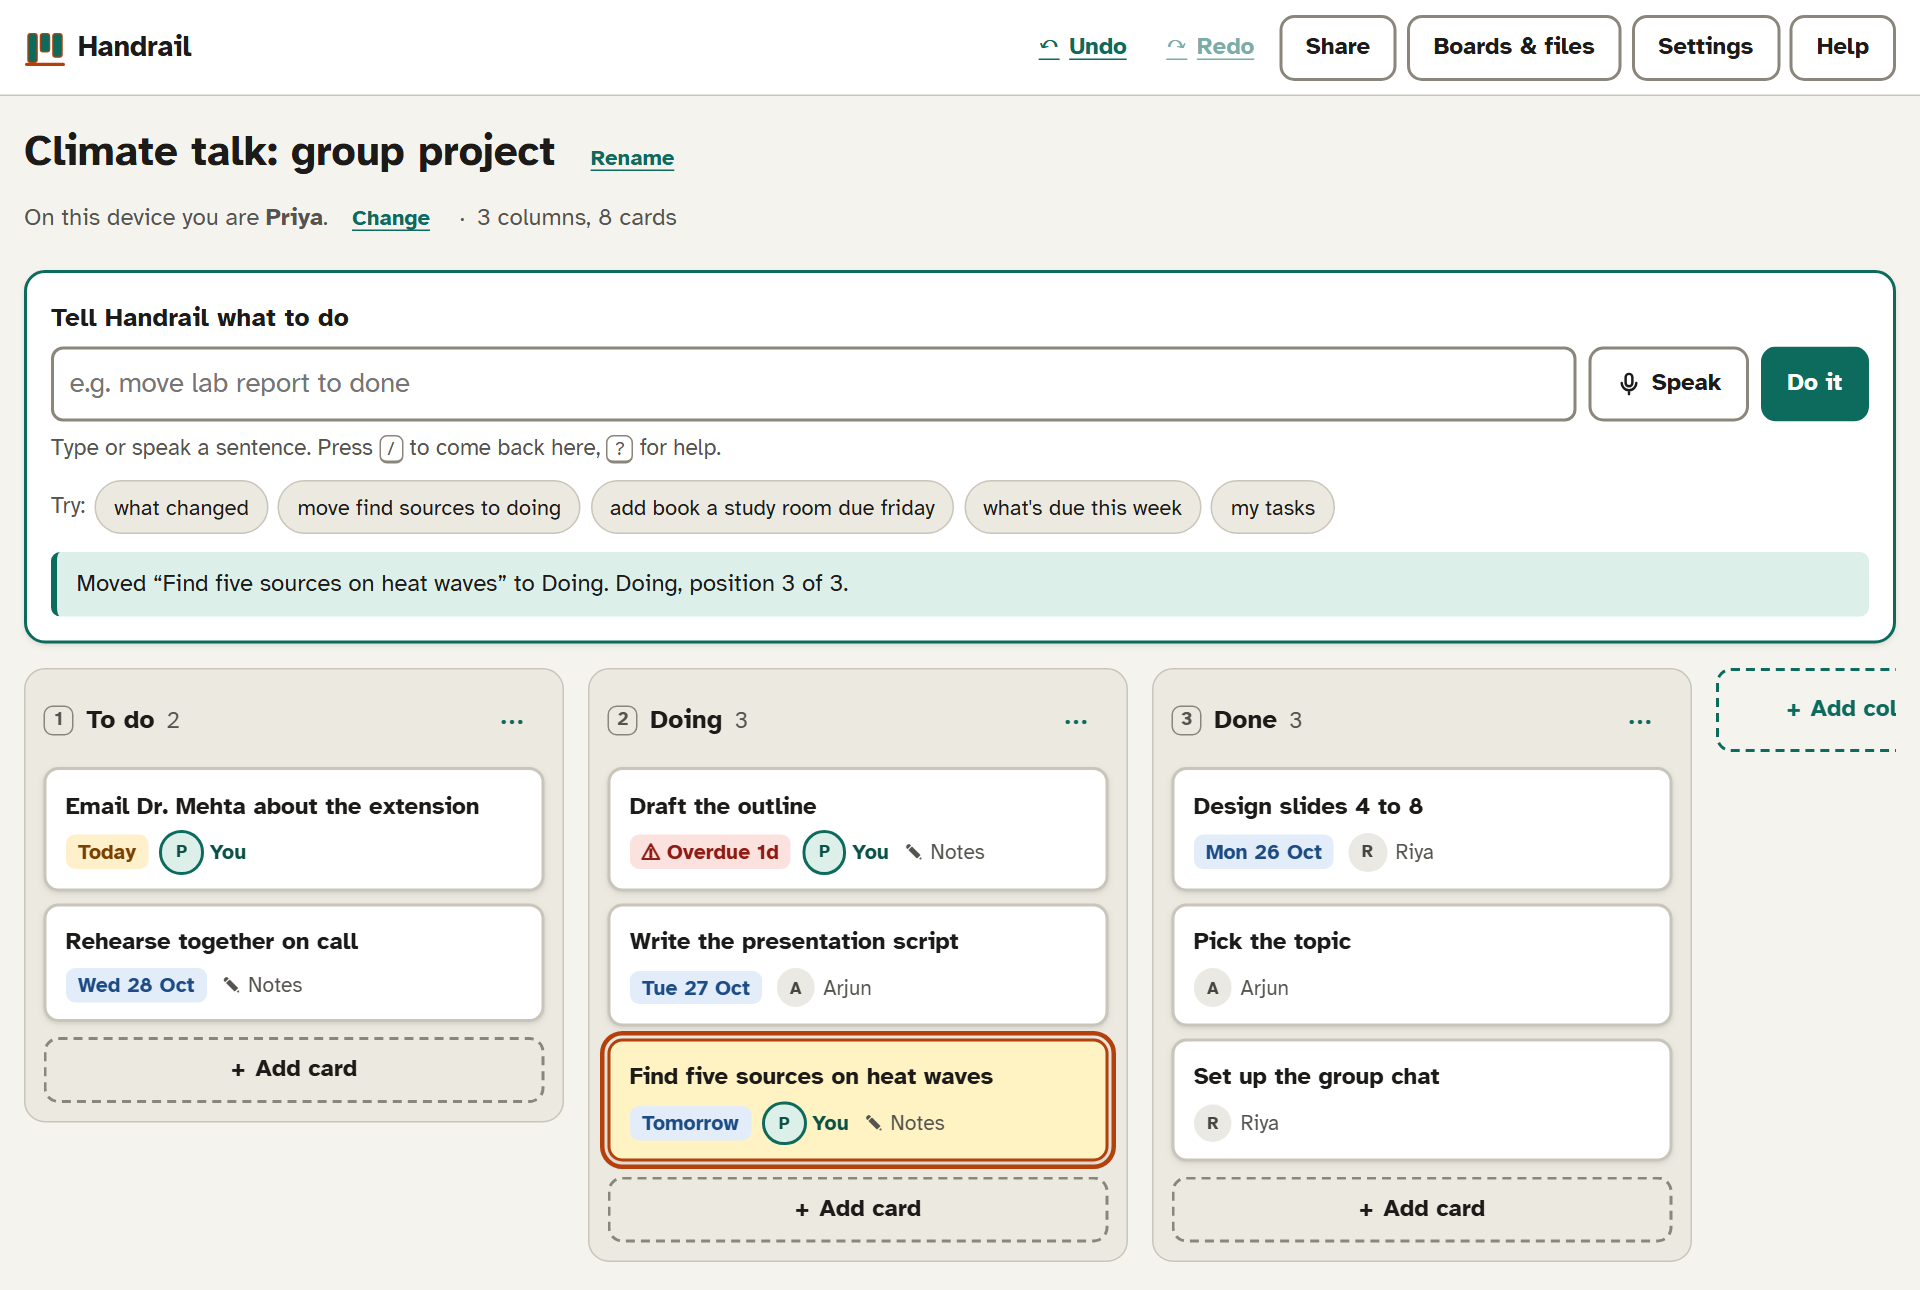
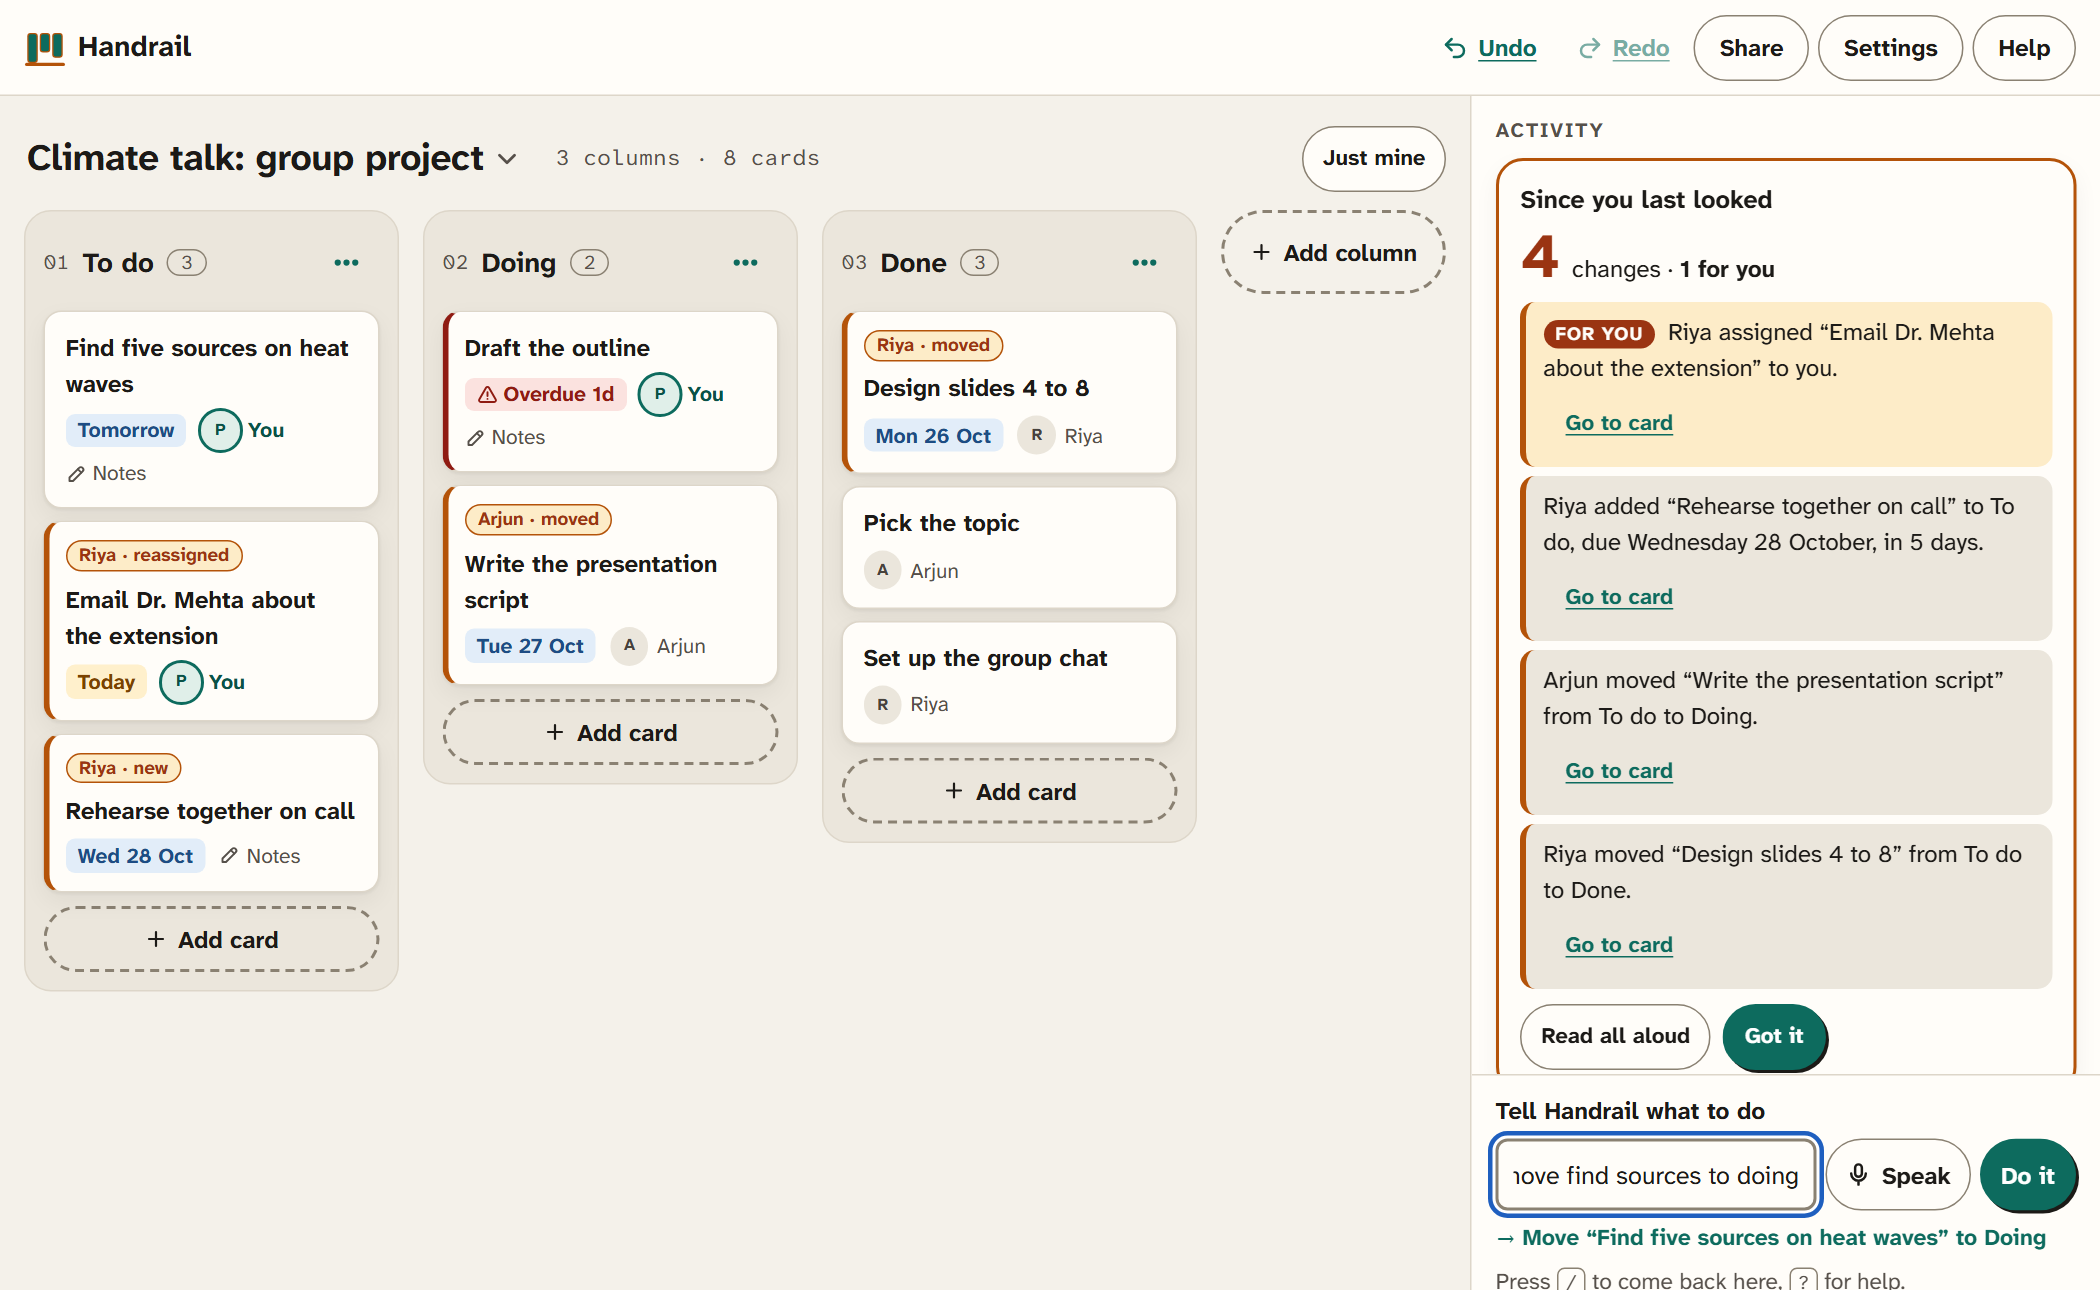
Update the copy to lead with “never hunt for what changed”
The page description, the top of the README, the help intro and the empty-state messages now lead with the main idea: Handrail tells you what your teammates changed so you never have to hunt for it, with or without sight. The README is honest that keyboard card moves already exist elsewhere (GitHub Projects, Jira) and positions the plain-sentence change summary as the part nobody else offers. Screenshots refreshed for the new layout.

diff --git a/index.html b/index.html
@@ -3,7 +3,7 @@
   <head>
     <meta charset="UTF-8" />
     <meta name="viewport" content="width=device-width, initial-scale=1.0" />
-    <meta name="description" content="Handrail is a project board you can use without dragging, seeing the screen, or a mouse. Move cards by keyboard, menu or a spoken sentence, and hear what teammates changed." />
+    <meta name="description" content="Handrail is a project board that tells you what your teammates changed, so you never have to hunt for it, with or without sight. Works by keyboard, menu or a typed or spoken sentence." />
     <meta name="theme-color" content="#0d6b5e" />
     <link rel="icon" type="image/svg+xml" href="./favicon.svg" />
     <title>Handrail</title>

diff --git a/src/components/ActivityPanel.tsx b/src/components/ActivityPanel.tsx
@@ -29,7 +29,7 @@ function History({ entries }: { entries: HistoryEntry[] }) {
       <h3 id="history-h">Commands</h3>
       {entries.length === 0 ? (
         <p className="empty-note">
-          Type or say what you want below, like “what changed” or “move slides to done”. Your commands and Handrail’s replies show up here.
+          Type or say what you want below, like “what changed” or “move slides to done”. Handrail shows what it will do before you press Enter, and your commands and its replies stay here.
         </p>
       ) : (
         <ol className="chat" data-testid="history">

diff --git a/src/components/AppDialogs.tsx b/src/components/AppDialogs.tsx
@@ -126,6 +126,9 @@ export function HelpDialog({ open, onClose }: { open: boolean; onClose: () => vo
   return (
     <Modal open={open} onClose={onClose} title="How to use Handrail" wide testId="help">
       <div className="help">
+        <p className="help-intro">
+          Handrail tells you what your teammates changed, so you never have to hunt for it. Everything else works by keyboard, by menu, or by typing or saying a sentence.
+        </p>
         <section aria-labelledby="h-say">
           <h3 id="h-say">Things you can type or say</h3>
           <table className="table">

diff --git a/README.md b/README.md
@@ -1,22 +1,24 @@
 # Handrail
 
-**A project board you can use without dragging, without seeing the screen, and without a mouse.**
+**A project board that tells you what changed, so you never have to hunt for it, with or without sight.**
 
-**Try it:** https://dakshhhhh-ops.github.io/Handrail/ (no account; it opens with a sample group project)
+**Try it:** https://dakshhhhh-ops.github.io/Handrail/ (no account; it opens with a sample group project. Click the board name and choose *Simulate teammates' changes* to see the main feature.)
 
-![The board after teammates' overnight changes, with a "Since you last looked" list of four changes, one marked "for you"](docs/changes.png)
+![The board with an Activity panel listing four changes since you last looked, one marked "for you", and the changed cards tagged on the board](docs/changes.png)
 
 ## The problem
 
-Student group projects run on boards like Trello, Notion and Jira, and those boards are built around one gesture: **dragging a card from one column to another**. That gesture shuts people out:
+In a group project, the hard part is often not doing your own task. It is **finding out what everyone else changed** since you last looked. On Trello, Notion or Jira you find out by scanning: you glance across the columns and notice that "Slides" moved to Done, or that a new card has your name on it. Activity feeds exist, but they are long lists of raw events, and written summaries are a paid AI add-on. Scanning is slow for everyone, and for a screen-reader user it means stepping through every card in every column to spot one difference.
+
+Handrail does the scanning for you. When a teammate sends their link, it writes every change as a plain sentence, puts the ones that involve you first, and tags those cards on the board. It's free, private and screen-reader-first.
+
+Moving cards without a mouse is not new (GitHub Projects and Jira support keyboard moves). Handrail includes it because the same people who can't scan a board often can't drag one either:
 
 - **Blind and low-vision students**, who use screen readers or magnifiers.
 - **Students with motor impairments** (tremor, RSI, one-handed use) who can't hold a mouse button steady while dragging.
 - **Keyboard-only and voice-control users.**
 
-WCAG 2.2 added a success criterion for this exact problem, [2.5.7 Dragging Movements](https://www.w3.org/WAI/WCAG22/Understanding/dragging-movements.html): anything done by dragging must also be possible with a single pointer action or without a pointer.
-
-Even when the board itself can be used, a second barrier remains: **finding out what your teammates changed**. A sighted student glances at the board and sees that "Slides" moved to Done. A screen-reader user has to step through every card in every column to notice.
+WCAG 2.2 covers this in [2.5.7 Dragging Movements](https://www.w3.org/WAI/WCAG22/Understanding/dragging-movements.html): anything done by dragging must also be possible without dragging.
 
 **Handrail's user:** Priya, a blind student working with NVDA on a group project. Her teammates Riya and Arjun use the board with a mouse.
 
@@ -24,9 +26,9 @@ Even when the board itself can be used, a second barrier remains: **finding out 
 
 | Instead of… | In Handrail you… |
 |---|---|
-| Dragging a card | Say or type **"move find sources to doing"**, press a **number key** (3 sends it to column 3), or **pick it up with Space** and move it with the arrow keys |
-| Scanning the board for changes | Open your teammate's link and hear **"Since you last looked: Riya assigned 'Email Dr. Mehta' to you. Arjun moved 'Write the script' to Doing…"** (changes that involve you come first) |
-| Reading every card to find deadlines | Ask **"what's due this week"**, **"anything overdue"** or **"my tasks"** |
+| Scanning the board for changes | Open your teammate's link and see or hear **"Since you last looked: Riya assigned 'Email Dr. Mehta' to you. Arjun moved 'Write the script' to Doing…"**. Changes that involve you come first, and changed cards are tagged on the board ("Riya · moved") |
+| Dragging a card | Type or say **"move find sources to doing"** (Handrail shows what it will do before you press Enter), press a **number key** (3 sends it to column 3), or **pick it up with Space** and move it with the arrow keys |
+| Reading every card to find deadlines | Ask **"what's due this week"**, **"anything overdue"** or **"my tasks"**, or press **Just mine** to see only your cards and the changes that involve you |
 | Fiddly date pickers | Type **"due next friday"**, **"in 3 days"** or **"oct 30"** |
 | Hoping you didn't break something | **Undo** any change with Ctrl+Z, the Undo button, or by saying "undo" |
 
@@ -55,7 +57,7 @@ Handrail has no backend and no accounts. **Share** packs the whole board into a 
 2. Riya opens it, makes changes, and shares her link back.
 3. Priya opens Riya's link. Handrail compares it with the version Priya last saw and turns every difference into a sentence, naming who made it. It moves focus to that list and announces how many changes there are.
 
-To see it without two devices, open **Boards & files → Simulate teammates' changes**.
+To see it without two devices, click the board name to open the board menu, then choose **Simulate teammates' changes**.
 
 ## Keyboard
 
@@ -74,8 +76,8 @@ To see it without two devices, open **Boards & files → Simulate teammates' cha
 ```bash
 npm install
 npm run dev          # http://localhost:5173
-npm test             # 55 unit tests (parser, dates, change detection, imports)
-npm run test:e2e     # 22 browser tests incl. axe accessibility audit
+npm test             # 68 unit tests (parser, previews, dates, change detection, imports)
+npm run test:e2e     # 31 browser tests incl. axe accessibility audit
 npm run build        # static site in dist/
 ```
 
@@ -90,7 +92,7 @@ Every push to `main` runs type-checking, both test suites, and then deploys to G
   - `dates.ts` handles everyday dates ("next friday", "the 30th", "in two weeks").
   - `diff.ts` compares two versions of a board and describes each change as a sentence, with changes that involve you first.
   - `validate.ts` treats every shared link, imported file and saved board as untrusted: it limits sizes, fixes ids and drops broken cards.
-- **Testing:** Vitest (55 tests) and Playwright (22 tests), including a two-person handoff test that uses two separate browser contexts. **axe-core** checks WCAG 2.2 AA in light, dark and high-contrast themes, every dialog, and phone width, with zero violations.
+- **Testing:** Vitest (68 tests) and Playwright (31 tests), including a two-person handoff test that uses two separate browser contexts. **axe-core** checks WCAG 2.2 AA in light, dark and high-contrast themes, every dialog, and phone width, with zero violations.
 
 ## Limitations
 
